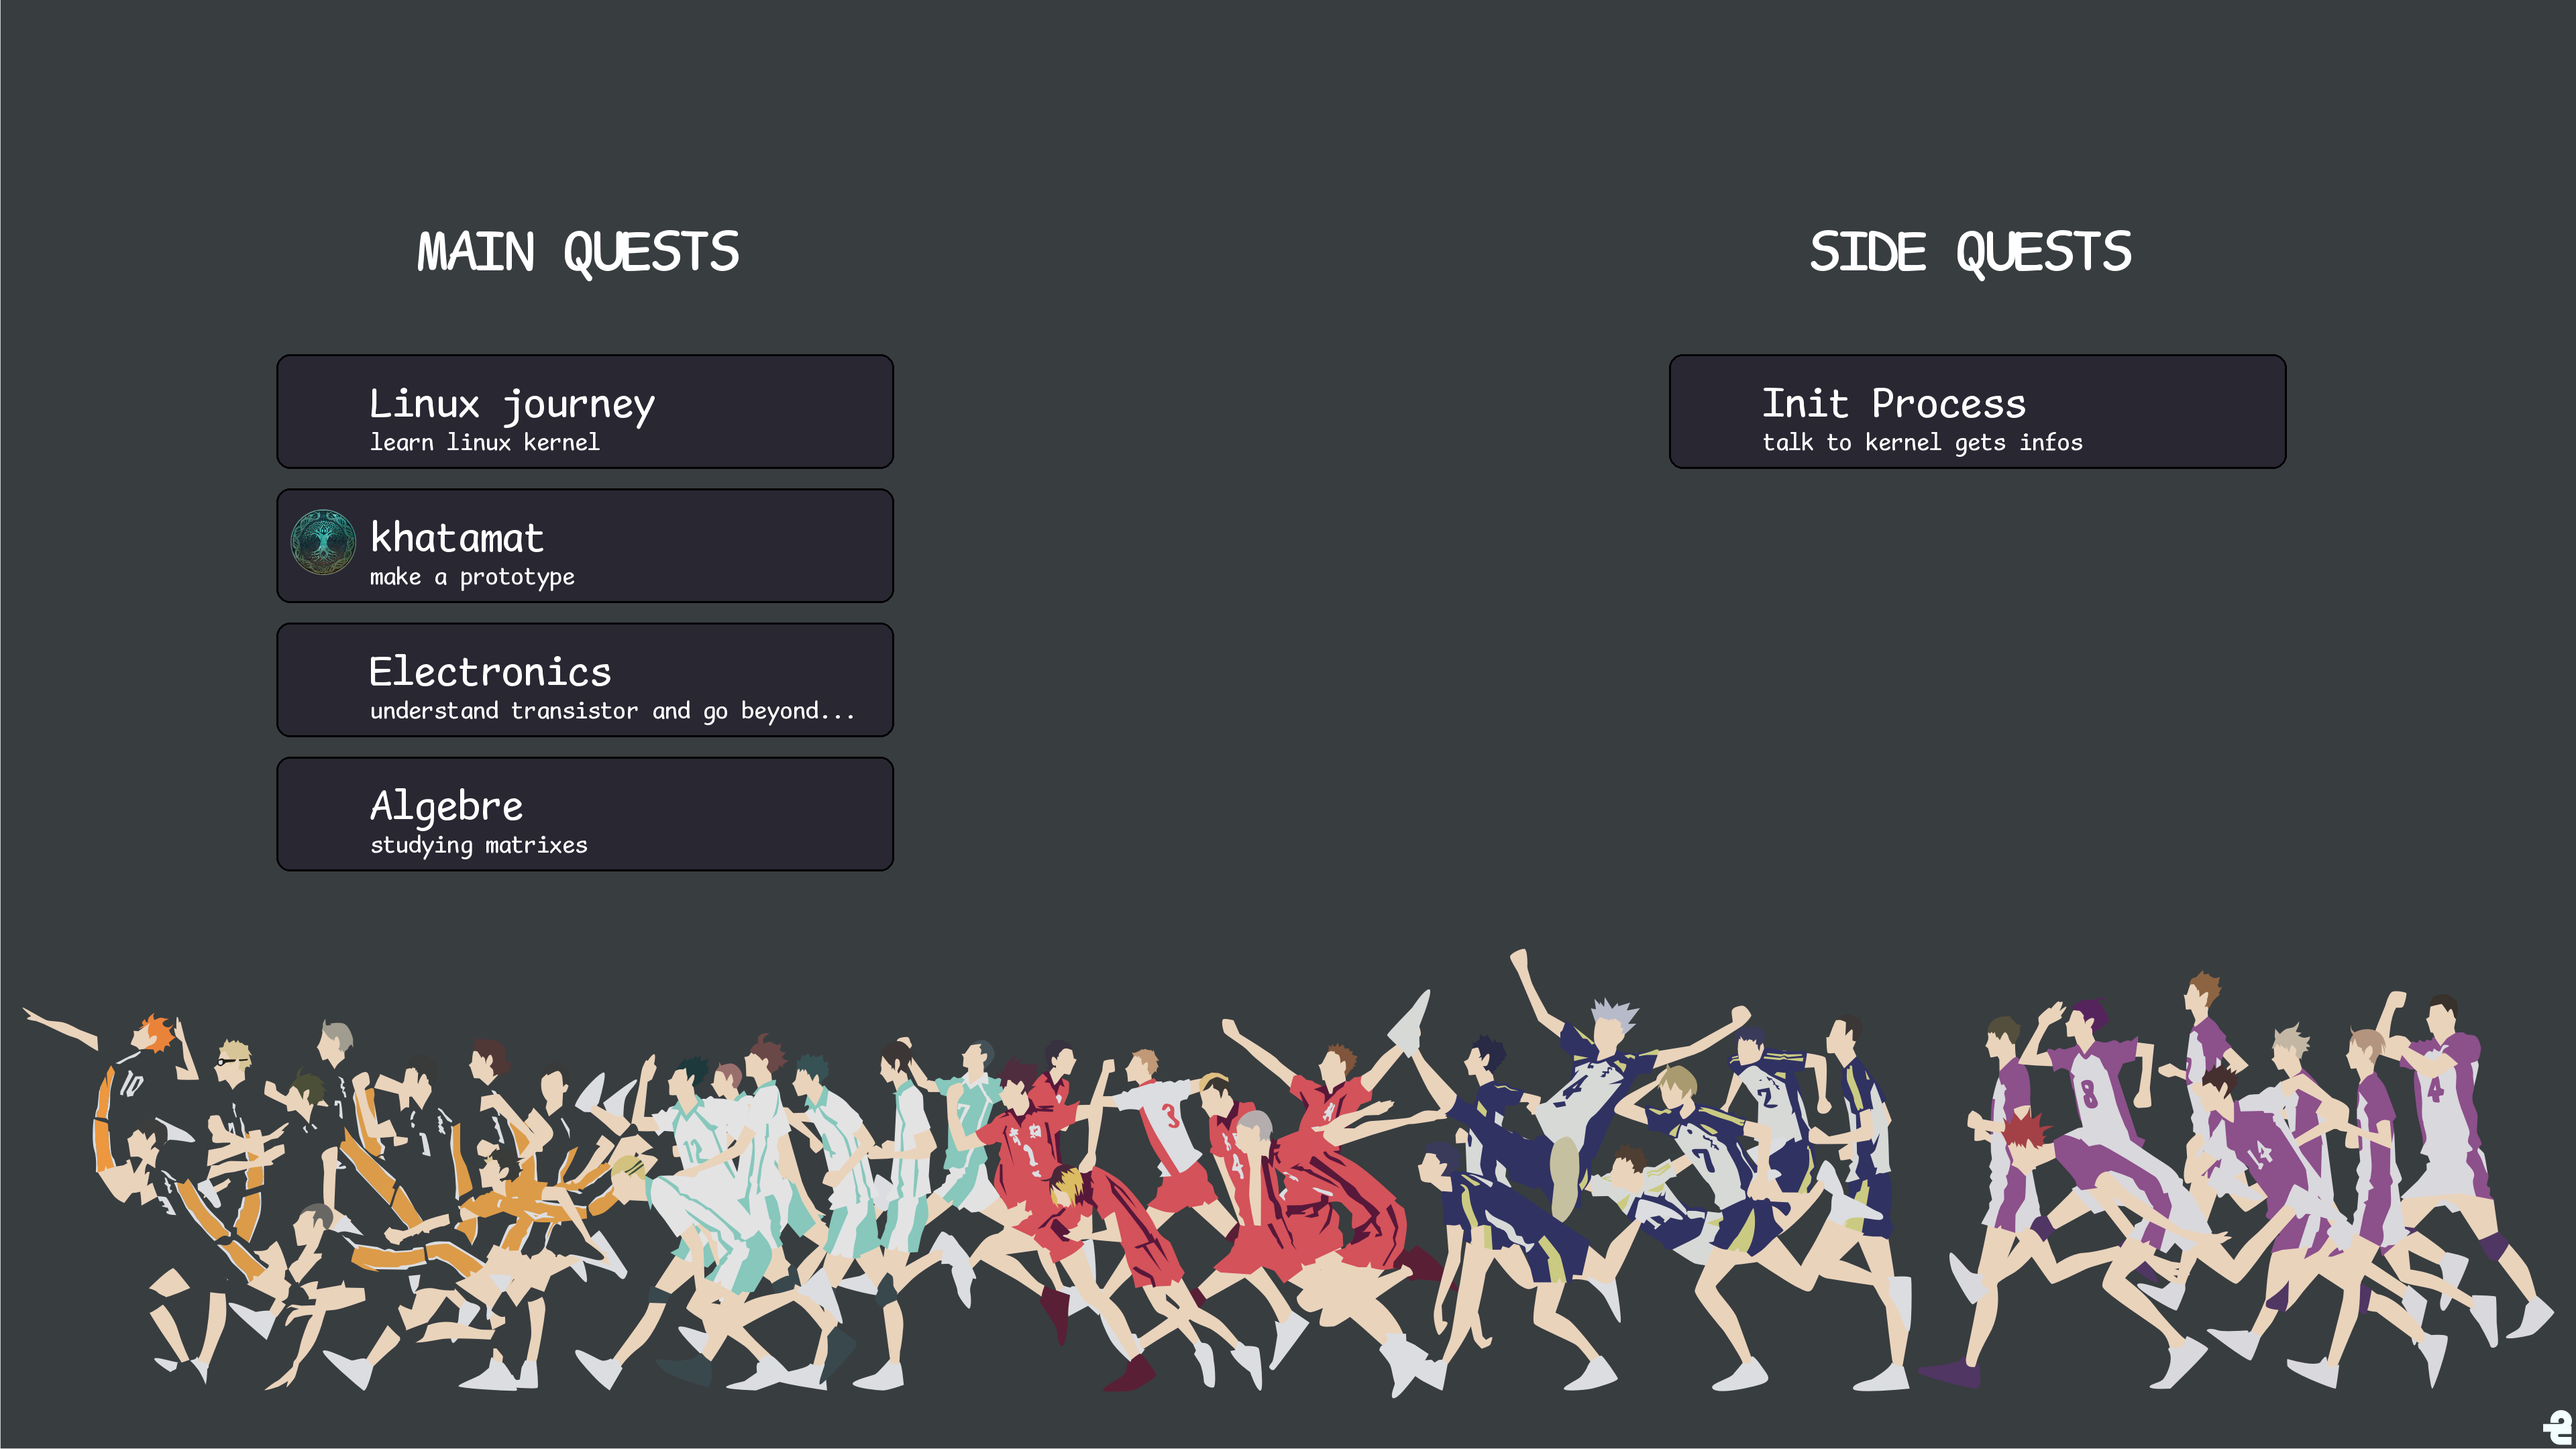
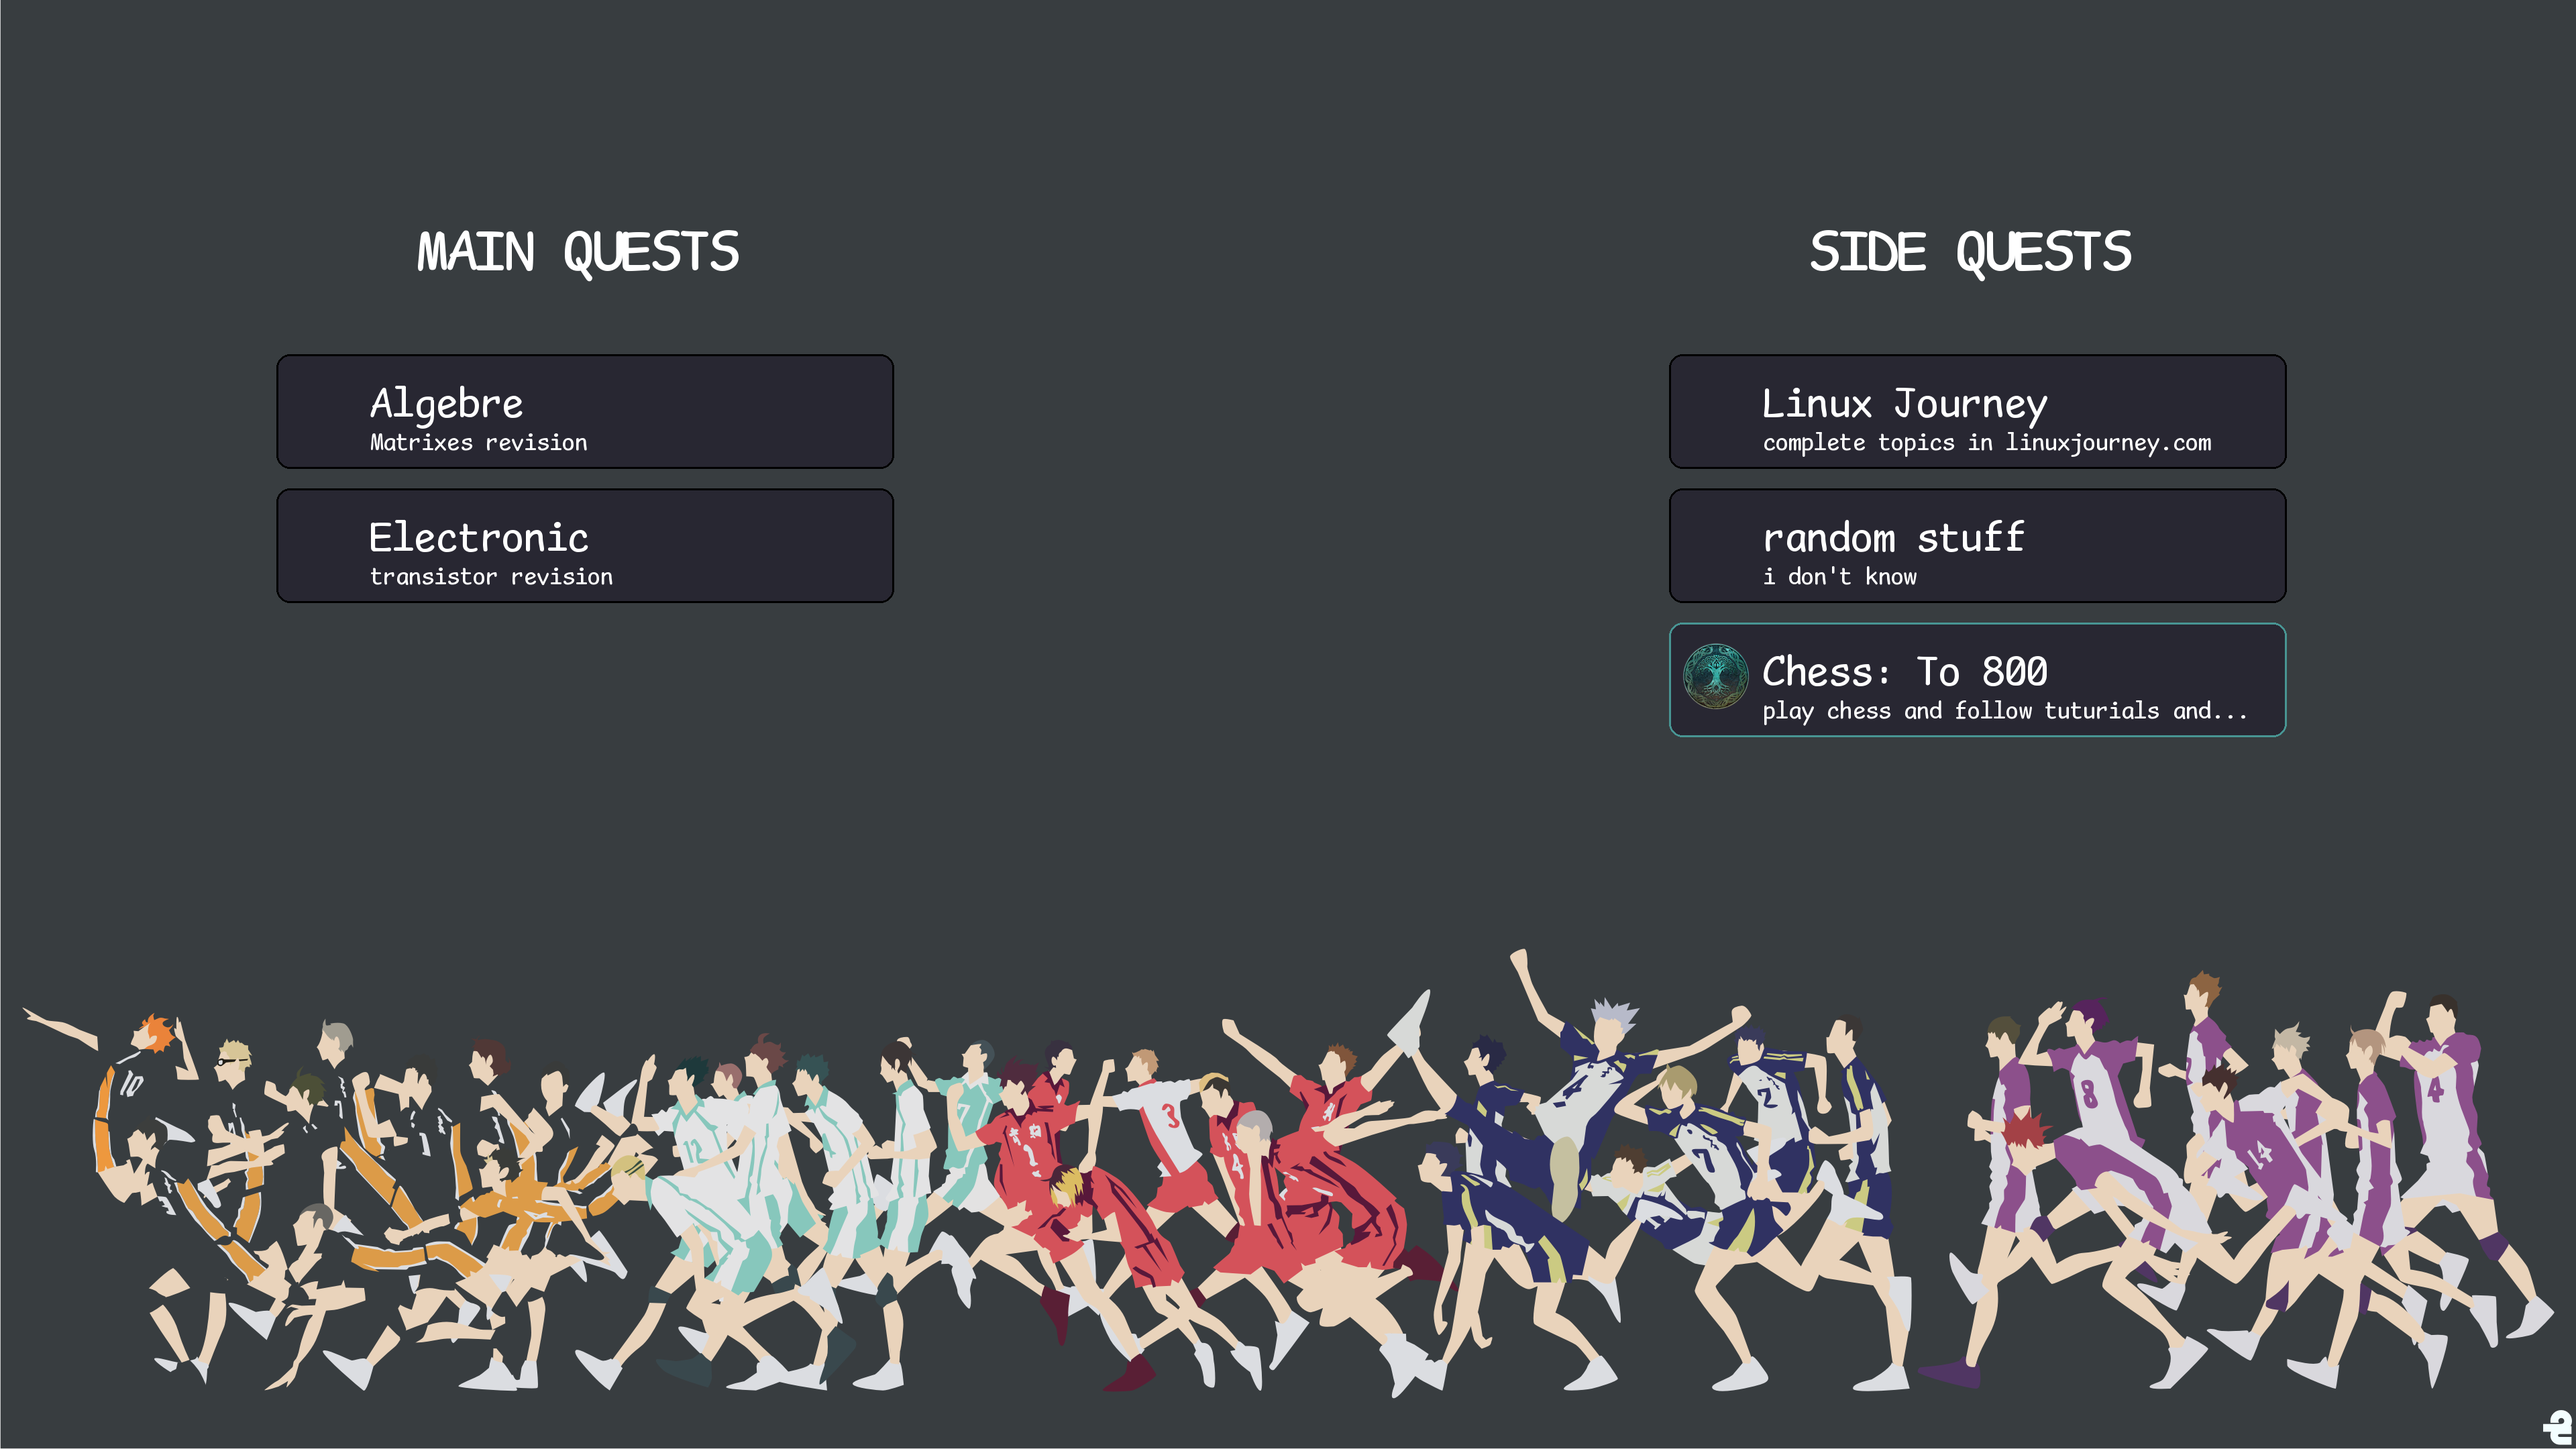
added font and assets folder

diff --git a/app.py b/app.py
@@ -1,3 +1,4 @@
+import ctypes.wintypes
 import sys,ctypes,os,json
 from PyQt5.QtWidgets import (
     QApplication, QWidget, QLabel, QPushButton, QFileDialog,
@@ -11,11 +12,14 @@ import traceback
 class WallpaperApp(QWidget):
     mainQ = {}
     sideQ = {}
+    TRACKING_COLOR=(72, 149, 147)
     selected_item = ''
     tracked_item = ''
     image_path =''
-    ICON_PATH ="./quest_icon.png"
-    FONT = "/home/lazex/ttf-comic-mono-git/src/comic-mono-font/ComicMono.ttf"
+    path = os.getcwd()
+    ICON_PATH = os.path.join(path,"./assets/quest_icon.png")
+    FONT =os.path.join(path,"./assets/ComicMono.ttf")
+    FONT_B = os.path.join(path,"./assets/ComicMono-Bold.ttf")
     def __init__(self):
         super().__init__()
         self.initUI()
@@ -136,7 +140,8 @@ class WallpaperApp(QWidget):
         if item in self.sideQ:
             del self.sideQ[item]
         self.update_quest_list()
-        self.on_submit()
+        if self.mainQ or self.sideQ:
+            self.on_submit()
 
     def retreiveD(self):
         with open("Quest.json", "r") as file:
@@ -222,7 +227,7 @@ class WallpaperApp(QWidget):
             icon_path = self.ICON_PATH
             font = ImageFont.truetype(self.FONT, 60)  
             font2 = ImageFont.truetype(self.FONT, 35 )  
-            font3 = ImageFont.truetype("/home/lazex/ttf-comic-mono-git/src/comic-mono-font/ComicMono-Bold.ttf", 80 )  
+            font3 = ImageFont.truetype(self.FONT_B, 80 )  
 
             icon = Image.open(icon_path)
             icon_size = 100
@@ -299,20 +304,23 @@ class WallpaperApp(QWidget):
                 
                 des = self.sideQ[quest]
                 text,text2 = cut_text(quest,des)
-                text = f"{quest}"
-                text2 = f"{des}"
-                
-                # Draw rounded rectangle for side quest
-                draw.rounded_rectangle(
-                    [(x_side - 20, y_side - 20), (x_side + 900, y_side + 150)],
-                    fill=(40, 39, 50), outline="black", width=3, radius=20
-                )
-                
                 # Draw icon (aligned to the right)
                 if quest == self.tracked_item:
+                    draw.rounded_rectangle(
+                        [(x_side - 20, y_side - 20), (x_side + 900, y_side + 150)],
+                        fill=(40, 39, 50), outline=self.TRACKING_COLOR, width=3, radius=20
+                    )
                     icon_x = x_side   # Adjust icon position relative to the text
                     img.paste(icon, (int(icon_x), int(y_side + 10)), icon)
-
+                
+                else:
+                # Draw rounded rectangle for side quest
+                    draw.rounded_rectangle(
+                        [(x_side - 20, y_side - 20), (x_side + 900, y_side + 150)],
+                        fill=(40, 39, 50), outline="black", width=3, radius=20
+                    )
+                
+                
                 # Draw text (aligned to the right)
                 draw.text((x_side + 120, y_side + 25), text, fill="white", font=font)
                 draw.text((x_side + 120, y_side+ 95), text2, fill="white", font=font2)
@@ -330,18 +338,18 @@ class WallpaperApp(QWidget):
         except Exception as e:
             error_trace = traceback.format_exc()
             QMessageBox.critical(self, "Error", f"Failed to generate image: {e} {error_trace}")
-
+    print(ctypes.windll.user32)
     def set_wallpaper_windows(self, image_path):
         try:
-            ctypes.windll.user32.SystemParametersInfoW(20, 0, image_path, 3)
+            ctypes.windll.user32.SystemParametersInfoW(20, 0, os.path.join(self.path,image_path), 3)
             QMessageBox.information(self, "Success", "Wallpaper set successfully!")
         except Exception as e:
             QMessageBox.critical(self, "Error", f"Failed to set wallpaper: {e}")
 
     def set_wallpaper_linux(self, image_path):
         try:
-            os.system(f"gsettings set org.gnome.desktop.background picture-uri /home/lazex/goal_Screener/{image_path}")
-            os.system(f"gsettings set org.gnome.desktop.background picture-uri-dark /home/lazex/goal_Screener/{image_path}")
+            os.system(f"gsettings set org.gnome.desktop.background picture-uri {os.path.join(self.path,image_path)}")
+            os.system(f"gsettings set org.gnome.desktop.background picture-uri-dark {os.path.join(self.path,image_path)}")
             QMessageBox.information(self, "Success", f"Wallpaper set successfully! {image_path}")
         except Exception as e:
             QMessageBox.critical(self, "Error", f"Failed to set wallpaper: {e}")
